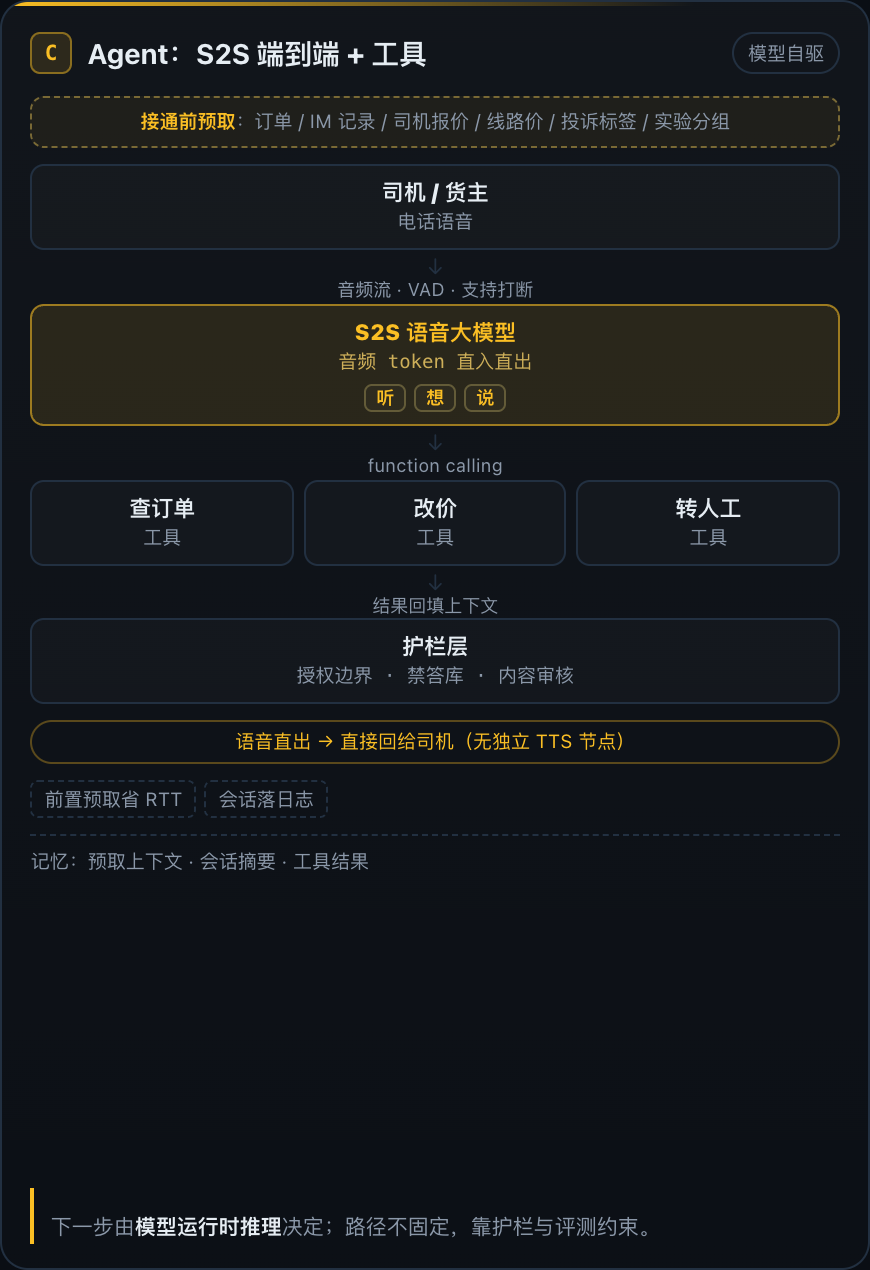
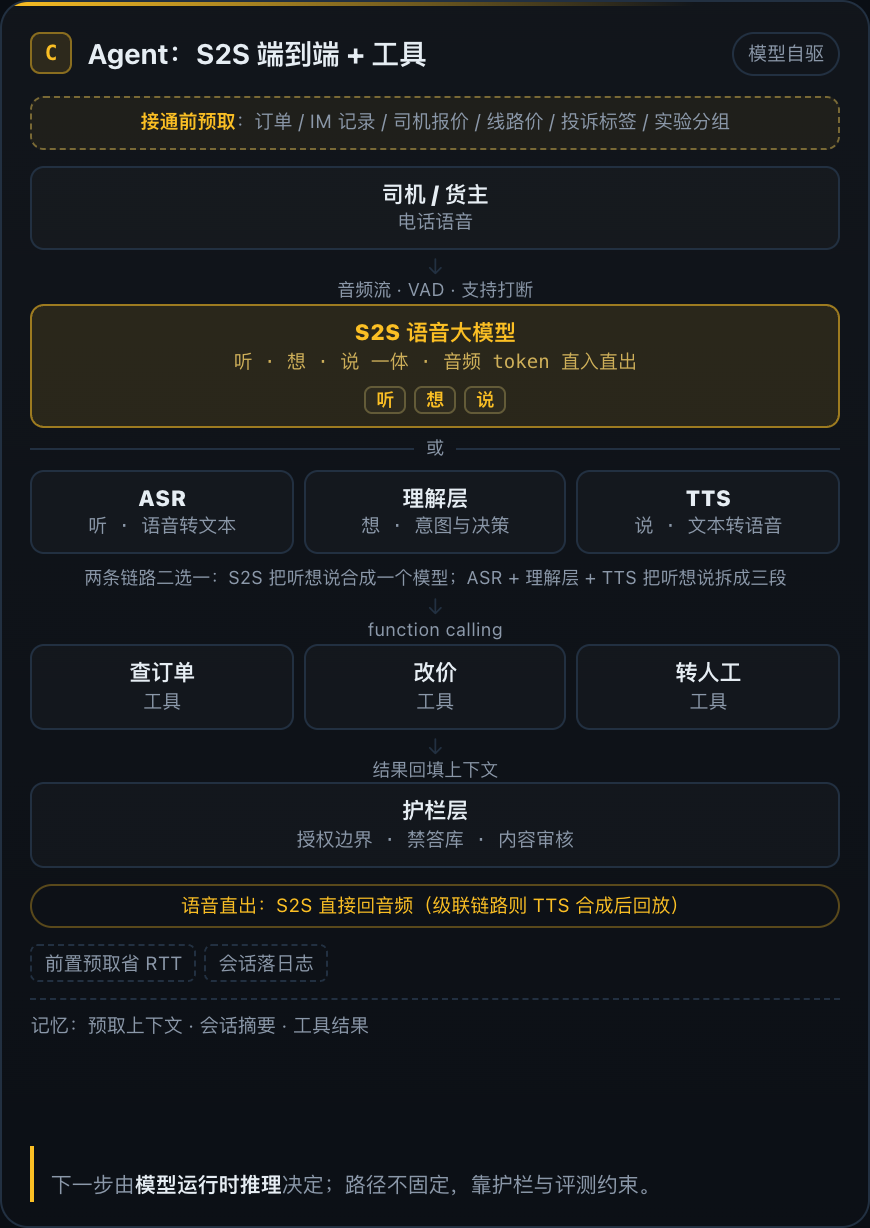
精简页面区块；Agent 架构图补充 S2S 与 ASR+理解层+TTS 两条链路

diff --git a/task-control-demo.html b/task-control-demo.html
@@ -327,6 +327,13 @@
     border: 1px solid var(--rule); border-radius: 999px; padding: 2px 7px; white-space: nowrap;
   }
   .arch-body { display: flex; flex-direction: column; }
+  .arch-body > * { flex: none; }
+  .aor {
+    display: flex; align-items: center; gap: 6px;
+    padding: 3px 0; font-size: 9px; color: var(--muted);
+  }
+  .aor::before, .aor::after { content: ""; height: 1px; flex: 1; background: var(--rule); }
+  .anote { margin-top: 5px; font-size: 9px; color: var(--muted); text-align: center; line-height: 1.45; }
   .abox {
     border: 1px solid var(--rule); border-radius: 7px; padding: 6px 7px;
     text-align: center; background: rgba(255,255,255,.018);
@@ -777,9 +784,16 @@
           <div class="adown"><span>音频流 · VAD · 支持打断</span></div>
           <div class="abox key">
             <b>S2S 语音大模型</b>
-            <small>音频 token 直入直出</small>
+            <small>听 · 想 · 说 一体 · 音频 token 直入直出</small>
             <div class="anodes"><span>听</span><span>想</span><span>说</span></div>
           </div>
+          <div class="aor">或</div>
+          <div class="arow">
+            <div class="abox"><b>ASR</b><small>听 · 语音转文本</small></div>
+            <div class="abox"><b>理解层</b><small>想 · 意图与决策</small></div>
+            <div class="abox"><b>TTS</b><small>说 · 文本转语音</small></div>
+          </div>
+          <div class="anote">两条链路二选一：S2S 把听想说合成一个模型；ASR + 理解层 + TTS 把听想说拆成三段</div>
           <div class="adown"><span>function calling</span></div>
           <div class="arow">
             <div class="abox"><b>查订单</b><small>工具</small></div>
@@ -788,7 +802,7 @@
           </div>
           <div class="adown"><span>结果回填上下文</span></div>
           <div class="abox"><b>护栏层</b><small>授权边界 · 禁答库 · 内容审核</small></div>
-          <div class="aloop">语音直出 → 直接回给司机（无独立 TTS 节点）</div>
+          <div class="aloop">语音直出：S2S 直接回音频（级联链路则 TTS 合成后回放）</div>
           <div class="asplit"><span>前置预取省 RTT</span><span>会话落日志</span></div>
           <div class="astore">记忆：预取上下文 · 会话摘要 · 工具结果</div>
         </div>
@@ -834,234 +848,7 @@
     </div>
   </section>
 
-  <!-- ===== 对比表 ===== -->
-  <section class="block">
-    <div class="sec-head">
-      <span class="sec-no">02</span>
-      <h2>一张表看清边界</h2>
-      <p>选型的本质：你愿意把“下一步”交给谁</p>
-    </div>
-    <div class="table-wrap">
-      <table>
-        <thead>
-          <tr><th>维度</th><th>工作流</th><th>状态机</th><th>Agent</th></tr>
-        </thead>
-        <tbody>
-          <tr><td>组织方式</td><td>步骤、条件分支、调用编排</td><td>当前阶段、事件、允许的转移（+ 放行条件）</td><td>模型在授权范围内动态选择步骤与工具</td></tr>
-          <tr><td>谁决定下一步</td><td>编排时写死</td><td>转移表 + 事件</td><td>模型运行时推理</td></tr>
-          <tr><td>表达重点</td><td>顺序与依赖</td><td>生命周期与合法性</td><td>目标、工具、边界</td></tr>
-          <tr><td>一致性</td><td>高（路径可枚举）</td><td>高（状态 × 事件可穷举）</td><td>低（同题不同路径）</td></tr>
-          <tr><td>开放表达覆盖</td><td>低，未配置即兜底</td><td>中，新事件要加转移</td><td>高，可处理长尾与追问</td></tr>
-          <tr><td>典型故障</td><td>卡在未定义分支</td><td>非法转移被拒 / 状态漏配</td><td>幻觉、越权、绕路、成本失控</td></tr>
-          <tr><td>可观测性</td><td>每步都有日志</td><td>状态快照可回放</td><td>要看决策链与工具调用埋点</td></tr>
-          <tr><td>合规审计</td><td>最易审计</td><td>最易审计</td><td>需禁答库、白名单、人工复核</td></tr>
-          <tr><td>典型场景</td><td>货运外呼的固定节点：开场白→资料补全→议价→结束</td><td>订单确认、议价、取消等有阶段与放行条件的生命周期</td><td>动态议价、跨系统查价、复杂异议与投诉</td></tr>
-          <tr><td>一句话</td><td>按剧本演</td><td>按规则走</td><td>按目标做</td></tr>
-        </tbody>
-      </table>
-    </div>
-  </section>
-
-  <!-- ===== 国内文章 ===== -->
-  <section class="block">
-    <div class="sec-head">
-      <span class="sec-no">03</span>
-      <h2>国内文章：中文语境下怎么讲这件事</h2>
-      <p>优先国内厂商官方文档，其次看社区里的一手拆解</p>
-    </div>
-    <div class="cols3">
-      <div class="card" style="--c:#38bdf8">
-        <h3>工作流（Workflow）</h3>
-        <div class="ctag">有向步骤 + 条件分支 + 调用编排</div>
-        <ul class="doclist">
-          <li>
-            <div class="org">阿里云百炼 · 官方文档</div>
-            <a href="https://help.aliyun.com/zh/model-studio/workflow-application/" target="_blank" rel="noopener">工作流应用：节点与编排</a>
-            <div class="desc">国内一线平台的中文一手资料：开始/结束、条件判断、循环、批处理、大模型节点各自的语义。</div>
-          </li>
-          <li>
-            <div class="org">扣子 Coze · 官方文档</div>
-            <a href="https://docs.coze.cn/guides/workflow_node" target="_blank" rel="noopener">工作流节点</a>
-            <div class="desc">低代码画布上的节点定义，含子工作流嵌套、批处理、异常忽略——典型“画布即代码”。</div>
-          </li>
-          <li>
-            <div class="org">阿里云开发者社区</div>
-            <a href="https://developer.aliyun.com/article/1776672" target="_blank" rel="noopener">工作流 vs Agent 与行业落地范式</a>
-            <div class="desc">控制流“编译期定义 vs 推理期生成”的对比表，并给出“工作流为骨、Agent 为肉、人工为关口”的落地结论。</div>
-          </li>
-          <li>
-            <div class="org">腾讯云开发者社区</div>
-            <a href="https://cloud.tencent.cn/developer/article/2735523" target="_blank" rel="noopener">Workflow vs Agent：别再傻傻分不清，选错真的会踩坑</a>
-            <div class="desc">“流水线工人 vs 自带工具箱的实习生”，并给出三问辨别法，适合讲给业务方听。</div>
-          </li>
-          <li>
-            <div class="org">华为开发者联盟</div>
-            <a href="https://developer.huawei.com/consumer/cn/blog/topic/03205693050407044" target="_blank" rel="noopener">架构演进：从确定性工作流到自主智能体</a>
-            <div class="desc">用同一场景（旅游规划）分别走 Workflow 与 Agent，直观看两种范式的差距。</div>
-          </li>
-        </ul>
-      </div>
-
-      <div class="card" style="--c:#a78bfa">
-        <h3>状态机（State Machine）</h3>
-        <div class="ctag">状态 + 事件 + 转移 + 放行条件</div>
-        <ul class="doclist">
-          <li>
-            <div class="org">阿里云开发者社区</div>
-            <a href="https://developer.aliyun.com/article/1108490" target="_blank" rel="noopener">COLA 框架状态机设计与实现全过程解析</a>
-            <div class="desc">国内 Java 业务最常用的轻量状态机：State / Event / Transition / Condition 四件套，附审批与订单流转示例。</div>
-          </li>
-          <li>
-            <div class="org">阿里云开发者社区</div>
-            <a href="https://developer.aliyun.com/article/1774551" target="_blank" rel="noopener">DAG 与状态机工作流编排原理、差异对比与应用实践</a>
-            <div class="desc">DAG 适合固定无环的流水线，状态机适合事件驱动、多轮分支、可回滚的对话型场景——正好对应本次演示。</div>
-          </li>
-          <li>
-            <div class="org">CSDN</div>
-            <a href="https://blog.csdn.net/qq_50446805/article/details/151906088" target="_blank" rel="noopener">状态机编排与 Activiti / Camunda / Flowable 的区别</a>
-            <div class="desc">一句话讲透：状态机是事件驱动，工作流引擎是完成任务就往下走；配“红绿灯 vs 菜谱”的类比。</div>
-          </li>
-          <li>
-            <div class="org">CSDN</div>
-            <a href="https://blog.csdn.net/xiaofeng10330111/article/details/166850495" target="_blank" rel="noopener">能自主不等于该自主：四档选型与可控性工程</a>
-            <div class="desc">把“确定性流程 / 状态机 / 工作流编排 / 自主 Agent”分四档，判据就是“下一步由谁决定”，与本站三栏完全同构。</div>
-          </li>
-        </ul>
-      </div>
-
-      <div class="card" style="--c:#fbbf24">
-        <h3>Agent</h3>
-        <div class="ctag">目标 + 工具 + 循环 + 护栏</div>
-        <ul class="doclist">
-          <li>
-            <div class="org">阿里云百炼 · 官方文档</div>
-            <a href="https://help.aliyun.com/zh/model-studio/flow-agent-introduction" target="_blank" rel="noopener">Flow Agent 概述：智能体应用 vs 工作流应用</a>
-            <div class="desc">官方给的选择口径很干脆：开放式对话选智能体，步骤已知、要可复现选工作流。</div>
-          </li>
-          <li>
-            <div class="org">阿里云开发者社区</div>
-            <a href="https://developer.aliyun.com/article/1741784" target="_blank" rel="noopener">当我们在聊 Agent 时，我们到底在聊什么</a>
-            <div class="desc">用“自主决策链条的长度”区分 Workflow / Skills / Agent：设计期定完、压缩到单个任务、运行时生成。</div>
-          </li>
-          <li>
-            <div class="org">阿里云开发者社区</div>
-            <a href="https://developer.aliyun.com/article/1742120" target="_blank" rel="noopener">你买的那个 Agent，可能只是一个 Workflow 套了层皮</a>
-            <div class="desc">“三问测试法”识别真假 Agent，很适合演示时反问听众：不画流程图它能跑吗？</div>
-          </li>
-          <li>
-            <div class="org">掘金</div>
-            <a href="https://juejin.cn/post/7667008177452351539" target="_blank" rel="noopener">AI Workflow 与 Agent 到底有什么区别：从流水线到智能决策</a>
-            <div class="desc">从 LangChain 的 pipe 链式写法讲到 ReAct 循环，代码与场景都有，适合给研发看。</div>
-          </li>
-          <li>
-            <div class="org">火山引擎开发者社区</div>
-            <a href="https://developer.volcengine.com/articles/7447047229900554252" target="_blank" rel="noopener">Coze 工作流搭建介绍</a>
-            <div class="desc">实战视角：开始/结束、循环、大模型节点怎么配，以及输出不符合预期时怎么逐节点排查。</div>
-          </li>
-        </ul>
-      </div>
-    </div>
-    <div class="combo">
-      想找<b>公众号版本</b>：微信「搜一搜」按上面对应的标题关键词检索即可。同类选题常出现在 <b>阿里云开发者</b>、<b>腾讯云开发者</b>、<b>华为云开发者联盟</b>、<b>火山引擎开发者社区</b>；行业解读可看 <b>机器之心</b>、<b>InfoQ</b>、<b>Datawhale</b>。微信文章不对外开放直链，只能站内搜索标题。
-    </div>
-  </section>
-
-  <!-- ===== 可上手体验 ===== -->
-  <section class="block">
-    <div class="sec-head">
-      <span class="sec-no">04</span>
-      <h2>可以自己上手体验的产品</h2>
-      <p>绿色=注册即用，橙色=要预约/商务开通；每个都标了“进去先做什么”</p>
-    </div>
-    <div class="case-grid">
-      <div class="case" style="--c:#38bdf8">
-        <h3><span class="pill">工作流</span>拖节点就能跑</h3>
-        <ul>
-          <li><b><a href="https://www.coze.cn/" target="_blank" rel="noopener">扣子 Coze</a></b><em class="free">免费</em> <span>— 上手最快。新建工作流，把演示里的 S1→S7 拖成 7 个节点，加一个条件分支，10 分钟能跑通。</span></li>
-          <li><b><a href="https://bailian.console.aliyun.com/" target="_blank" rel="noopener">阿里云百炼</a></b><em class="free">有免费额度</em> <span>— 同一控制台里同时建“工作流应用”和“智能体应用”，用同一个需求对比，最直观。</span></li>
-          <li><b><a href="https://cloud.tencent.com/product/adp" target="_blank" rel="noopener">腾讯云智能体开发平台 ADP</a></b><em class="free">体验版 0 元</em> <span>— 四种模式并排：单工作流 / 标准 / Multi-Agent / Claw，可直接对照“谁决定下一步”。</span></li>
-          <li><b><a href="https://dify.ai/" target="_blank" rel="noopener">Dify</a></b><em class="free">云版免费</em> <span>— 工作流画布里可以塞 Agent 节点，适合演示“固定骨架 + 局部自主”。</span></li>
-          <li><b><a href="https://n8n.io/" target="_blank" rel="noopener">n8n</a></b><em class="free">可本地跑</em> <span>— 非 AI 的纯工作流对照物，用来讲“流程引擎本来长什么样”。</span></li>
-          <li><b><a href="https://www.aliyun.com/product/ccc" target="_blank" rel="noopener">阿里云智能联络中心</a></b><em class="paid">需开通</em> <span>— 外呼任务的话术流、节点跳转、转人工，跟本次货运场景最接近。</span></li>
-        </ul>
-      </div>
-      <div class="case" style="--c:#a78bfa">
-        <h3><span class="pill">状态机</span>画转移表</h3>
-        <ul>
-          <li><b><a href="https://stately.ai/editor" target="_blank" rel="noopener">Stately Studio</a></b><em class="free">浏览器即用</em> <span>— 最推荐。照着图四画 DIALING → OPENING → NEGO → GUIDE_PRICE → CLOSE_SUCCESS → SUMMARY，加放行条件，点事件就能看非法转移被拦。</span></li>
-          <li><b><a href="https://stately.ai/docs/state-machines-and-statecharts" target="_blank" rel="noopener">XState 官方概念页</a></b><em class="free">免费</em> <span>— 配着 Studio 一起看，把 state / event / transition / guard 四个词对上。</span></li>
-          <li><b><a href="https://www.camunda.com/" target="_blank" rel="noopener">Camunda</a></b><em class="paid">免费试用</em> <span>— BPMN 泳道 + 网关，看清“工作流引擎”和“状态机”到底差在哪。</span></li>
-          <li><b><a href="https://www.flowable.com/open-source" target="_blank" rel="noopener">Flowable</a></b><em class="free">开源</em> <span>— 国内审批流最常见的开源引擎，可本地起一套跑请假/报销流程。</span></li>
-          <li><b><a href="https://aws.amazon.com/step-functions/" target="_blank" rel="noopener">AWS Step Functions</a></b><em class="paid">有免费额度</em> <span>— 托管状态机，执行历史里能看到每一步状态与转移，适合讲可审计。</span></li>
-          <li><b><a href="https://www.aliyun.com/product/fnf" target="_blank" rel="noopener">阿里云云工作流（FnF）</a></b><em class="paid">需开通</em> <span>— 国内版的同类服务，控制台里有可视化执行图。</span></li>
-        </ul>
-      </div>
-      <div class="case" style="--c:#fbbf24">
-        <h3><span class="pill">Agent</span>只给目标</h3>
-        <ul>
-          <li><b><a href="https://bailian.console.aliyun.com/" target="_blank" rel="noopener">百炼 · 智能体应用</a></b><em class="free">有免费额度</em> <span>— 只写提示词 + 挂工具，不给流程图；同一个货运需求，看它自己决定先查价还是先查订单。</span></li>
-          <li><b><a href="https://www.coze.cn/" target="_blank" rel="noopener">扣子 · 智能体</a></b><em class="free">免费</em> <span>— 给 3 个插件（查订单/查价/发短信），然后故意问一个没预设的问题，看它会不会自己换路。</span></li>
-          <li><b><a href="https://cloud.tencent.com/product/adp" target="_blank" rel="noopener">腾讯云 ADP · Multi-Agent</a></b><em class="free">体验版 0 元</em> <span>— 多个智能体分工，能看到“谁调谁”的编排轨迹。</span></li>
-          <li><b><a href="https://www.51ima.com/" target="_blank" rel="noopener">得助智能（中关村科金）</a></b><em class="paid">14 天试用</em> <span>— 大模型外呼：话术推翻、插话打断、意向打标、转人工，直接体验外呼场景的 Agent 化。</span></li>
-          <li><b><a href="https://www.salesforce.com/agentforce/" target="_blank" rel="noopener">Salesforce Agentforce</a></b><em class="paid">需预约</em> <span>— Atlas 推理引擎 + 护栏配置，看国外大厂怎么把权限边界做成产品。</span></li>
-          <li><b><a href="https://www.intercom.com/fin" target="_blank" rel="noopener">Intercom Fin</a></b><em class="paid">需申请</em> <span>— 客服 Agent 的标杆：自主查知识、执行动作、干净转人工。</span></li>
-        </ul>
-      </div>
-    </div>
-    <div class="combo">
-      <b>30 分钟体验路线（建议按这个顺序）</b>：① 扣子拖一遍 7 节点工作流 → ② 百炼里用同一个需求再建一个“智能体应用”，感受“不画图也能跑” → ③ Stately 里画 4 状态 + 放行条件，故意点一个非法事件看它被拦 → ④ 回来点本站的「拒绝加价」，三栏的分化就都能对上号了。
-    </div>
-  </section>
-
-  <!-- ===== 选型建议 ===== -->
-  <section class="block">
-    <div class="sec-head">
-      <span class="sec-no">05</span>
-      <h2>怎么选：按“失败代价”而不是按“技术新旧”</h2>
-      <p>金融/催收先保可控，体验型场景再放权</p>
-    </div>
-    <div class="howto">
-      <div class="how" style="--c:#38bdf8">
-        <div class="k">确定性优先</div>
-        <h3>选工作流</h3>
-        <p>节点稳定、分支可穷举、话术要可审计。例如<b>开场白、资料补全、通知回访</b>。代价是遇到没配的意图就只走固定旁路。</p>
-      </div>
-      <div class="how" style="--c:#a78bfa">
-        <div class="k">生命周期优先</div>
-        <h3>选状态机</h3>
-        <p>有多阶段、有条件校验、要防非法跳转。例如<b>货运订单确认、议价、取消、退款</b>。代价是新事件要补转移表。</p>
-      </div>
-      <div class="how" style="--c:#fbbf24">
-        <div class="k">开放表达优先</div>
-        <h3>选 Agent</h3>
-        <p>问题长尾、需要多工具协同、要处理异议与情绪。例如<b>动态议价、跨系统查价、复杂投诉</b>。代价是必须做评测、护栏和转人工。</p>
-      </div>
-    </div>
-    <div class="combo">
-      生产上最稳的组合：<b>状态机</b>管业务生命周期（订单/工单是否合法）<span class="arrow">＋</span><b>工作流</b>管话术与步骤（先说什么、再调什么）<span class="arrow">＋</span><b>Agent</b>填开放问答复与工具选择，外面再套<b>护栏 + 转人工</b>。所谓“套壳”不是原罪，<b>控制轴有没有升级</b>才是。
-    </div>
-  </section>
-
   <footer>
-    <div class="sources">
-      <h2>Sources</h2>
-      <ol>
-        <li id="cite-1"><span class="src-title">阿里云百炼, Flow Agent 概述 — 智能体应用与工作流应用的选择口径。</span><a class="src-url" href="https://help.aliyun.com/zh/model-studio/flow-agent-introduction" target="_blank" rel="noopener">help.aliyun.com/zh/model-studio/flow-agent-introduction</a></li>
-        <li id="cite-2"><span class="src-title">阿里云百炼, 工作流应用 — 条件判断、循环、批处理等节点语义。</span><a class="src-url" href="https://help.aliyun.com/zh/model-studio/workflow-application/" target="_blank" rel="noopener">help.aliyun.com/zh/model-studio/workflow-application/</a></li>
-        <li id="cite-3"><span class="src-title">扣子 Coze, 工作流节点 — 低代码画布的节点、子工作流与批处理。</span><a class="src-url" href="https://docs.coze.cn/guides/workflow_node" target="_blank" rel="noopener">docs.coze.cn/guides/workflow_node</a></li>
-        <li id="cite-4"><span class="src-title">阿里云开发者社区, 工作流 vs Agent 与行业落地范式。</span><a class="src-url" href="https://developer.aliyun.com/article/1776672" target="_blank" rel="noopener">developer.aliyun.com/article/1776672</a></li>
-        <li id="cite-5"><span class="src-title">腾讯云开发者社区, Workflow vs Agent：别再傻傻分不清，选错真的会踩坑。</span><a class="src-url" href="https://cloud.tencent.cn/developer/article/2735523" target="_blank" rel="noopener">cloud.tencent.cn/developer/article/2735523</a></li>
-        <li id="cite-6"><span class="src-title">华为开发者联盟, 架构演进：从确定性工作流到自主智能体。</span><a class="src-url" href="https://developer.huawei.com/consumer/cn/blog/topic/03205693050407044" target="_blank" rel="noopener">developer.huawei.com/consumer/cn/blog/topic/03205693050407044</a></li>
-        <li id="cite-7"><span class="src-title">阿里云开发者社区, COLA 框架状态机设计与实现全过程解析。</span><a class="src-url" href="https://developer.aliyun.com/article/1108490" target="_blank" rel="noopener">developer.aliyun.com/article/1108490</a></li>
-        <li id="cite-8"><span class="src-title">阿里云开发者社区, DAG 与状态机工作流编排原理、差异对比与应用实践。</span><a class="src-url" href="https://developer.aliyun.com/article/1774551" target="_blank" rel="noopener">developer.aliyun.com/article/1774551</a></li>
-        <li id="cite-9"><span class="src-title">CSDN, 状态机编排与 Activiti / Camunda / Flowable 的区别。</span><a class="src-url" href="https://blog.csdn.net/qq_50446805/article/details/151906088" target="_blank" rel="noopener">blog.csdn.net/qq_50446805/article/details/151906088</a></li>
-        <li id="cite-10"><span class="src-title">CSDN, 能自主不等于该自主：确定性流程、状态机、工作流与自主 Agent 的四档选型。</span><a class="src-url" href="https://blog.csdn.net/xiaofeng10330111/article/details/166850495" target="_blank" rel="noopener">blog.csdn.net/xiaofeng10330111/article/details/166850495</a></li>
-        <li id="cite-11"><span class="src-title">阿里云开发者社区, 当我们在聊 Agent 时，我们到底在聊什么。</span><a class="src-url" href="https://developer.aliyun.com/article/1741784" target="_blank" rel="noopener">developer.aliyun.com/article/1741784</a></li>
-        <li id="cite-12"><span class="src-title">阿里云开发者社区, 你买的那个 Agent，可能只是一个 Workflow 套了层皮。</span><a class="src-url" href="https://developer.aliyun.com/article/1742120" target="_blank" rel="noopener">developer.aliyun.com/article/1742120</a></li>
-        <li id="cite-13"><span class="src-title">掘金, AI Workflow 与 Agent 到底有什么区别：从流水线到智能决策。</span><a class="src-url" href="https://juejin.cn/post/7667008177452351539" target="_blank" rel="noopener">juejin.cn/post/7667008177452351539</a></li>
-        <li id="cite-14"><span class="src-title">火山引擎开发者社区, Coze 工作流搭建介绍。</span><a class="src-url" href="https://developer.volcengine.com/articles/7447047229900554252" target="_blank" rel="noopener">developer.volcengine.com/articles/7447047229900554252</a></li>
-      </ol>
-    </div>
     <p class="disclaimer">说明：演示中的时延、工具返回与话术为教学模拟，不代表任何厂商真实产品表现；产品能力请以官方文档与实测为准。页面无外部依赖，可离线投屏。</p>
   </footer>
 
